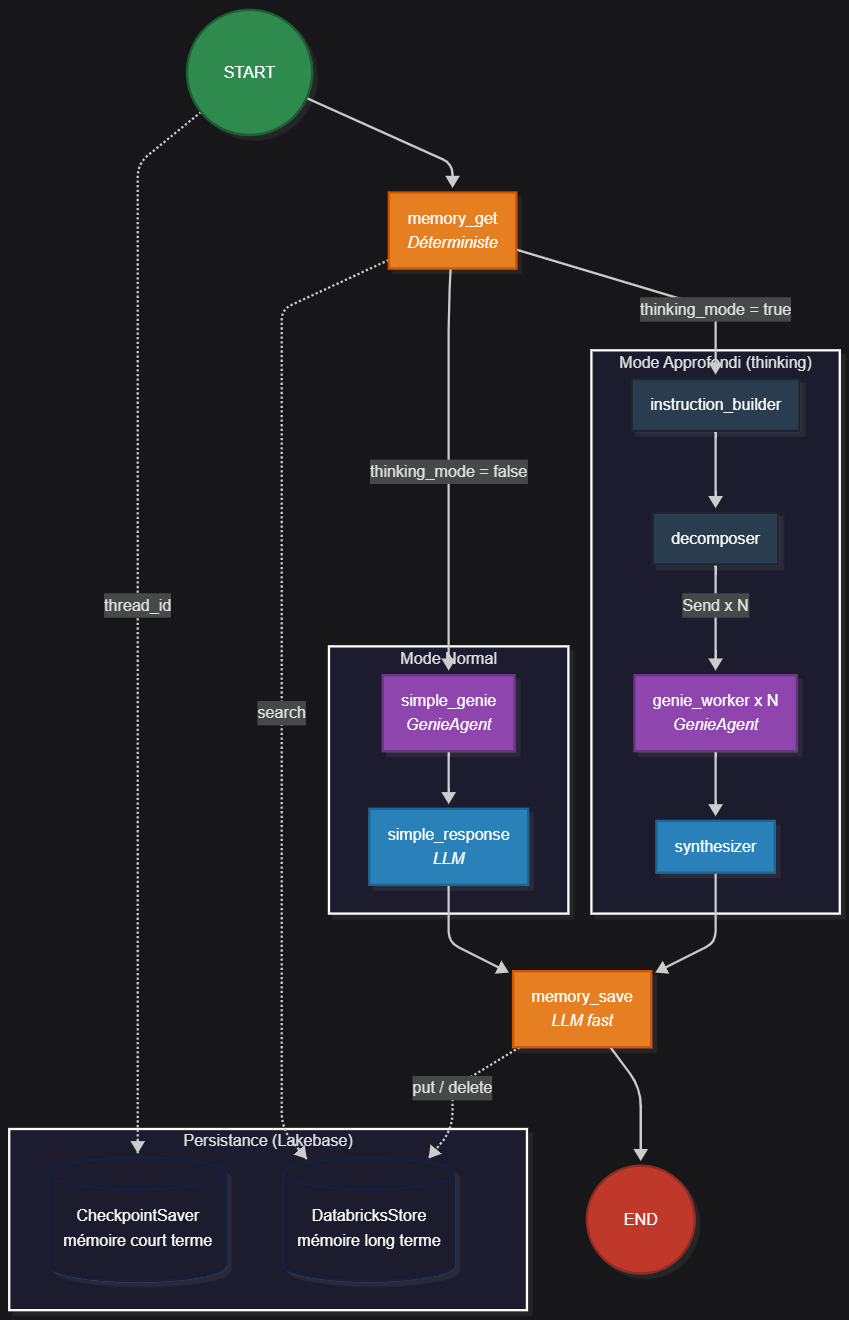
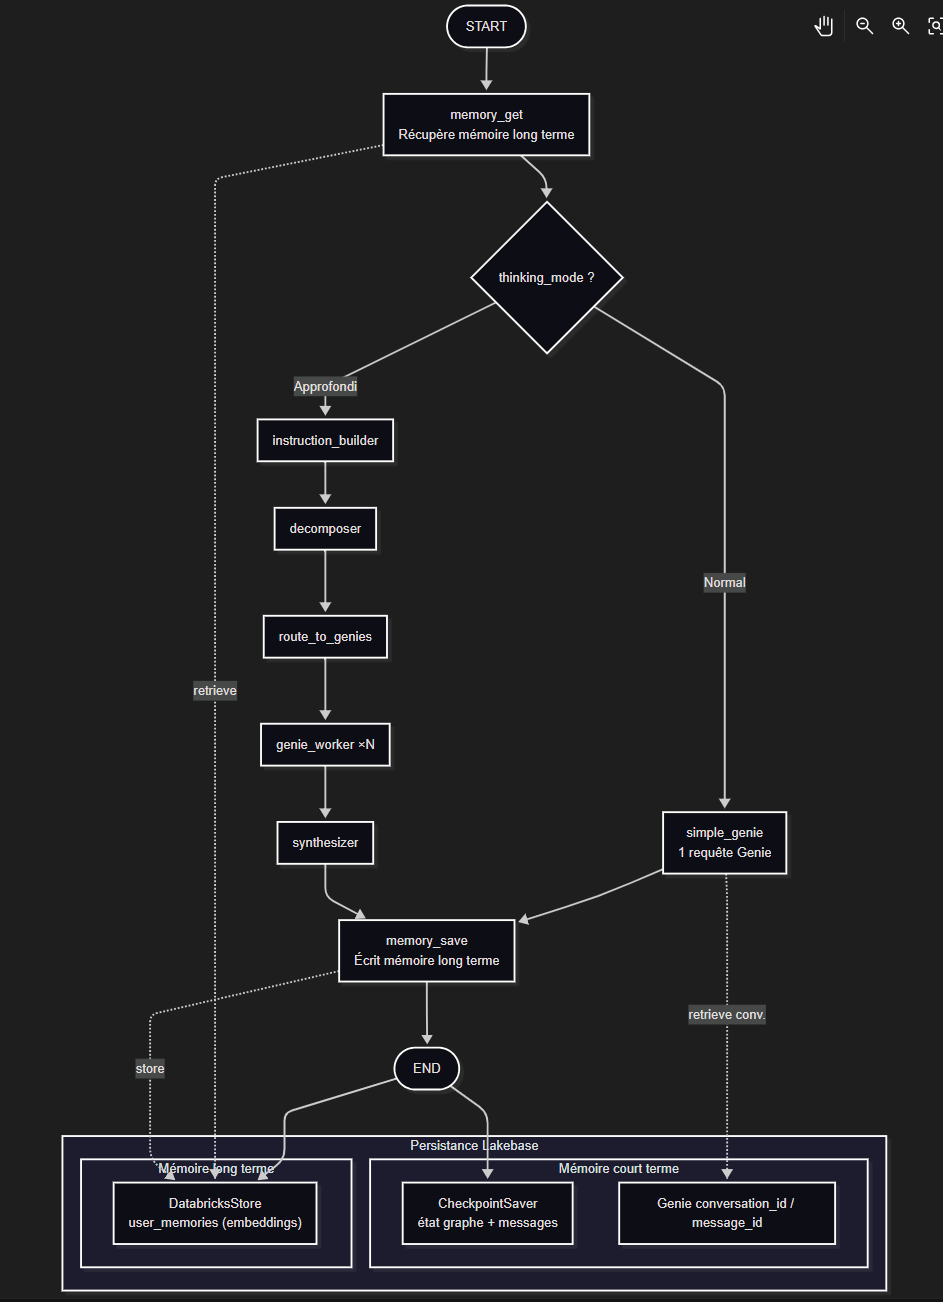
Initial commit

diff --git a/README.md b/README.md
@@ -49,7 +49,7 @@ Both are in one repo so you can see the full flow.
 - **`langgraph-multiagent-genie-multi-requetes.ipynb`** – Agent definition, MLflow wrap, deployment.
 - **`client/`** – React chat UI (messages, input, persona/mode selectors, streaming).
 - **`server/`** – Express API; **`routes/chat.ts`** calls the agent endpoint and streams back.
-- **`graph_schema.png`** – Visualization of the multi-agent graph 
+- **`graph_schema.png`** – Visualization of the multi-agent graph (version without RAG agent)
 
 --- 
 
